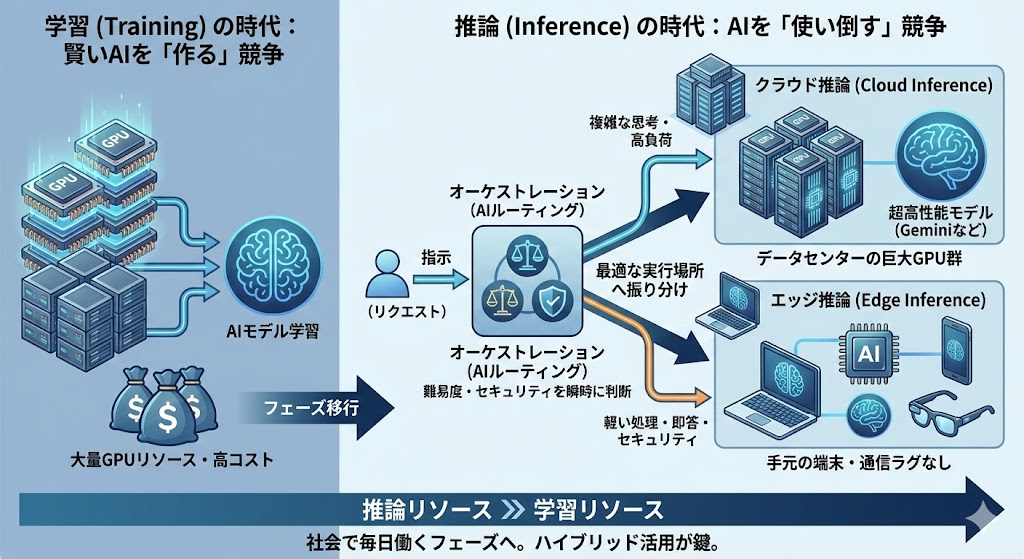
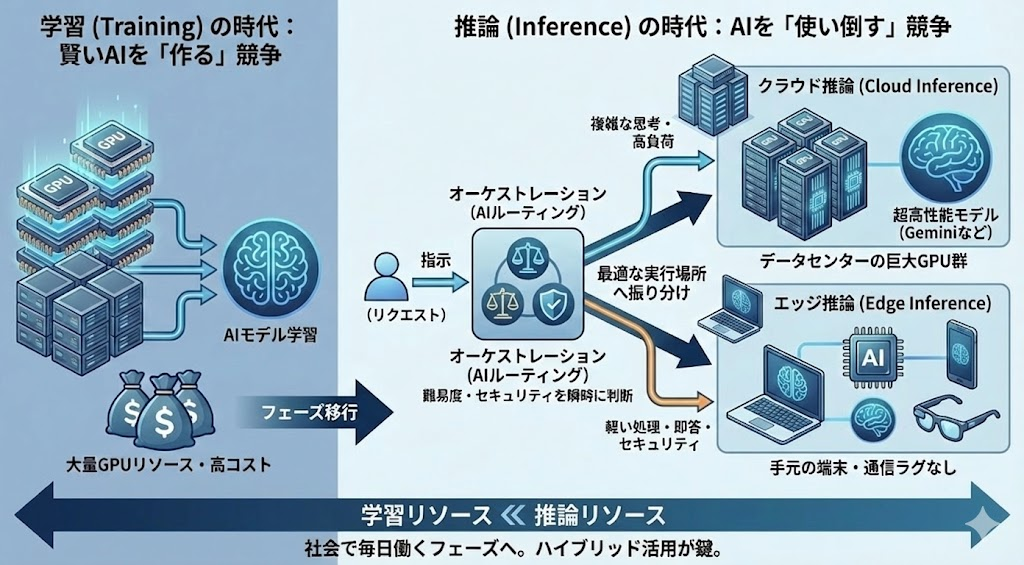
次回予告画像ついか

diff --git a/docs/ai-agile-vive-with-gemini-column-2015-vs-2025.md b/docs/ai-agile-vive-with-gemini-column-2015-vs-2025.md
@@ -132,12 +132,16 @@ Vive-with-Gemini のような対話型開発が一般的になれば、クラウ
 今回は「AIがなぜ賢くなったのか（物理的・技術的背景）」を解説しましたが、次回は<strong>「その賢さが、私たちの現場仕事をどう変えるのか？」</strong>という、さらに踏み込んだ最新機能に迫ります。
 キーワードは<strong>「熟考・行動・記憶」</strong>です。
 
+![次回予告：賢さから行動へ](./public/images/vive/次回予告：賢さから行動へ.jpg)
+
 1.  **「直感」から「熟考」へ（推論プロセスの進化）：**
     これまでのAIは即答型（System 1）でした。しかし最新のAIは、回答する前に「一呼吸置いて論理を検証する（System 2）」能力を獲得し始めています。自ら間違いに気づき修正する、「思考するAI」の衝撃とは？
 2.  **「対話」から「行動」へ（エージェント化）：**
     ただのチャットボットではありません。AIが自らPCを操作し、コードを実行し、エラーを直す。自律的にタスクを完遂する「エージェント（代理人）」としての働き方が始まります。
 3.  **「検索」から「全知」へ（ロングコンテキスト）：**
     RAG（辞書引き）の限界を超える技術。数万行のコードや分厚い仕様書を「まるごと頭に入れて」理解する、Gemini特有の超巨大記憶領域（100万〜200万トークン）がもたらす開発革命について。
+
+
 
 「道具」から「相棒」へ、そして<strong>「自律した部下」</strong>へ。
 AIとの付き合い方がまたガラリと変わる未来を解説します。お楽しみに。

diff --git a/docs/ai-agile-vive-with-gemini-extended.md b/docs/ai-agile-vive-with-gemini-extended.md
@@ -256,6 +256,10 @@ AIによるチェックと人のレビュー、そしてスプリントレビュ
 まさに心理的安全性が少しずつ高まり、  
 チームがアジャイルな方向へ自己組織化し始めているサインだと受け止めています。
 
+![AIを活用した新開発プロセス](./public/images/vive/AIを活用した新開発プロセス.jpg)
+
+
+
 ---
 
 ## 🌪 ＜補足説明＞フィードバック量とROI最大化のイメージ
